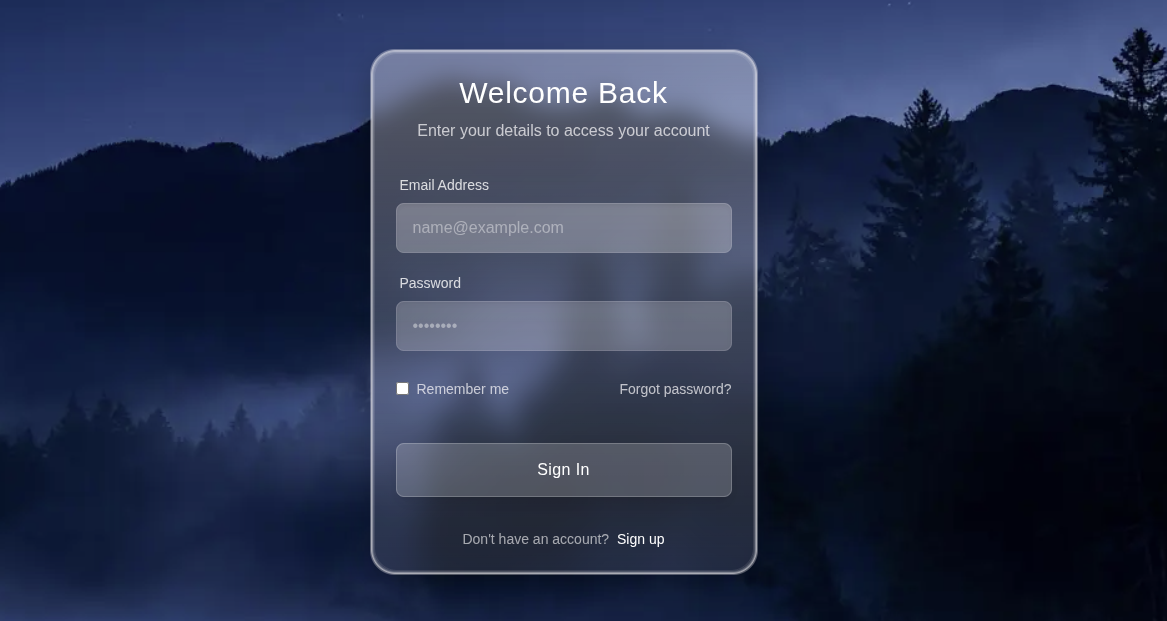
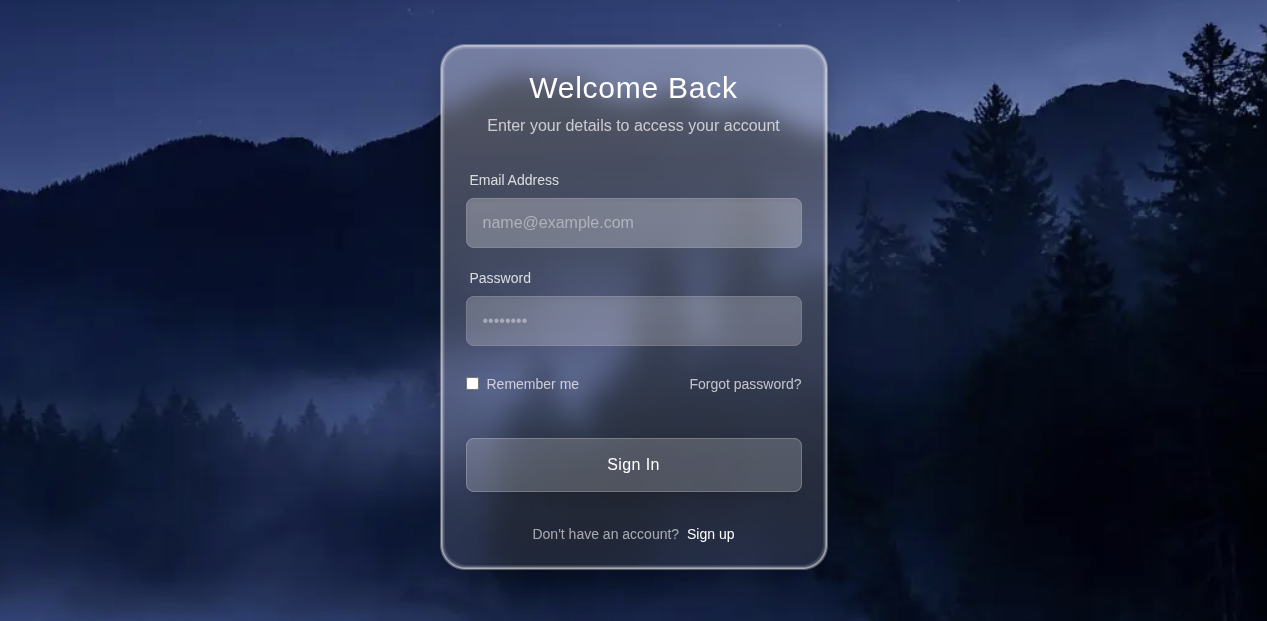
Add glassmorphism css to projects

diff --git a/app/[locale]/projects/oklch/components/ThemeController.tsx b/app/[locale]/projects/oklch/components/ThemeController.tsx
@@ -8,7 +8,7 @@ interface ThemeControllerProps {
 export function ThemeController({ darkMode, setDarkMode }: ThemeControllerProps) {
   return (
     <div className="sticky top-4 z-50 mt-16">
-      <div className="bg-white/80 backdrop-blur-xl border border-gray-200/50 rounded-2xl p-4 shadow-lg flex flex-col md:flex-row items-center justify-between gap-4">
+      <div className="bg-white/80 border border-gray-200/50 rounded-2xl p-4 shadow-lg flex flex-col md:flex-row items-center justify-between gap-4">
         <div className="flex-1 text-center md:text-left">
           <h2 className="text-base font-semibold text-gray-900">Theme</h2>
           <p className="text-gray-500 text-xs hidden md:block">

diff --git a/components/LanguageMenu.tsx b/components/LanguageMenu.tsx
@@ -84,7 +84,7 @@ export function LanguageMenu() {
             animate={{ opacity: 1, y: 0, scale: 1 }}
             exit={{ opacity: 0, y: -8, scale: 0.95 }}
             transition={{ duration: 0.15, ease: "easeOut" }}
-            className="absolute right-0 mt-2 w-48 origin-top-right overflow-hidden rounded-2xl border border-white/20 bg-white/95 p-1 shadow-xl backdrop-blur-xs ring-1 ring-black/5"
+            className="absolute right-0 mt-2 w-48 origin-top-right overflow-hidden rounded-2xl border border-white/20 bg-white/95 p-1 shadow-xl ring-1 ring-black/5"
           >
             {currentLanguage?.label && (
               <div className="px-3 py-2">

diff --git a/data/projects.ts b/data/projects.ts
@@ -37,4 +37,13 @@ export const projects: Project[] = [
     thumbnail: "/projects/gray-wolf-map.png",
     tags: ["web"],
   },
+  {
+    id: 5,
+    title: "Glassmorphism CSS Experiments",
+    tech: ["Next.js", "Tailwind CSS", "CSS"],
+    href: "/projects/glassmorphism-css-experiments",
+    github: "https://github.com/eremina-official/portfolio-nextjs/tree/main/app/%5Blocale%5D/projects/glassmorphism-css-experiments",
+    thumbnail: "/projects/glassmorphism-css.png",
+    tags: ["web", "css"],
+  },
 ];

diff --git a/components/Header.tsx b/components/Header.tsx
@@ -7,7 +7,7 @@ export function Header() {
   const t = useTranslations("header");
 
   return (
-    <header className="border-b border-zinc-200 shadow-sm backdrop-blur-sm z-10">
+    <header className="border-b border-zinc-200 shadow-sm z-10">
       <div className="mx-auto flex w-full max-w-7xl items-center justify-between gap-6 px-6 py-5">
         <div className="flex items-center gap-3">
           <Link href="/" className="text-lg font-semibold tracking-tight text-zinc-900">

diff --git a/components/Card.tsx b/components/Card.tsx
@@ -57,7 +57,7 @@ export function Card({ project }: CardProps) {
           <ul className="mt-4 flex flex-wrap gap-2 text-sm text-zinc-500">
             {tech.map((item) => (
               <li key={item} className="rounded-full px-4 py-1 text-xs font-medium
-             bg-primary/10 backdrop-blur-sm
+             bg-primary/10
              border border-primary/20
              text-accent/80">
                 {item}

diff --git a/app/[locale]/projects/glassmorphism-css-experiments/page.tsx b/app/[locale]/projects/glassmorphism-css-experiments/page.tsx
@@ -10,7 +10,7 @@ export const metadata: Metadata = {
 
 export default function GlassmorphismPage() {
   return (
-    <div className="relative scroll-smooth bg-black/20">
+    <div className="relative scroll-smooth bg-black/30">
       <div className="flex flex-col gap-8 pb-8">
         <GlassmorphismLoginForm />
         <GlassmorphismLoginFormRed />

diff --git a/types/projectTypes.ts b/types/projectTypes.ts
@@ -1,4 +1,4 @@
-export type Tag = "web" | "mobile" | "data" | "game";
+export type Tag = "web" | "mobile" | "data" | "game" | "css";
 
 export interface Project {
   id: number;
